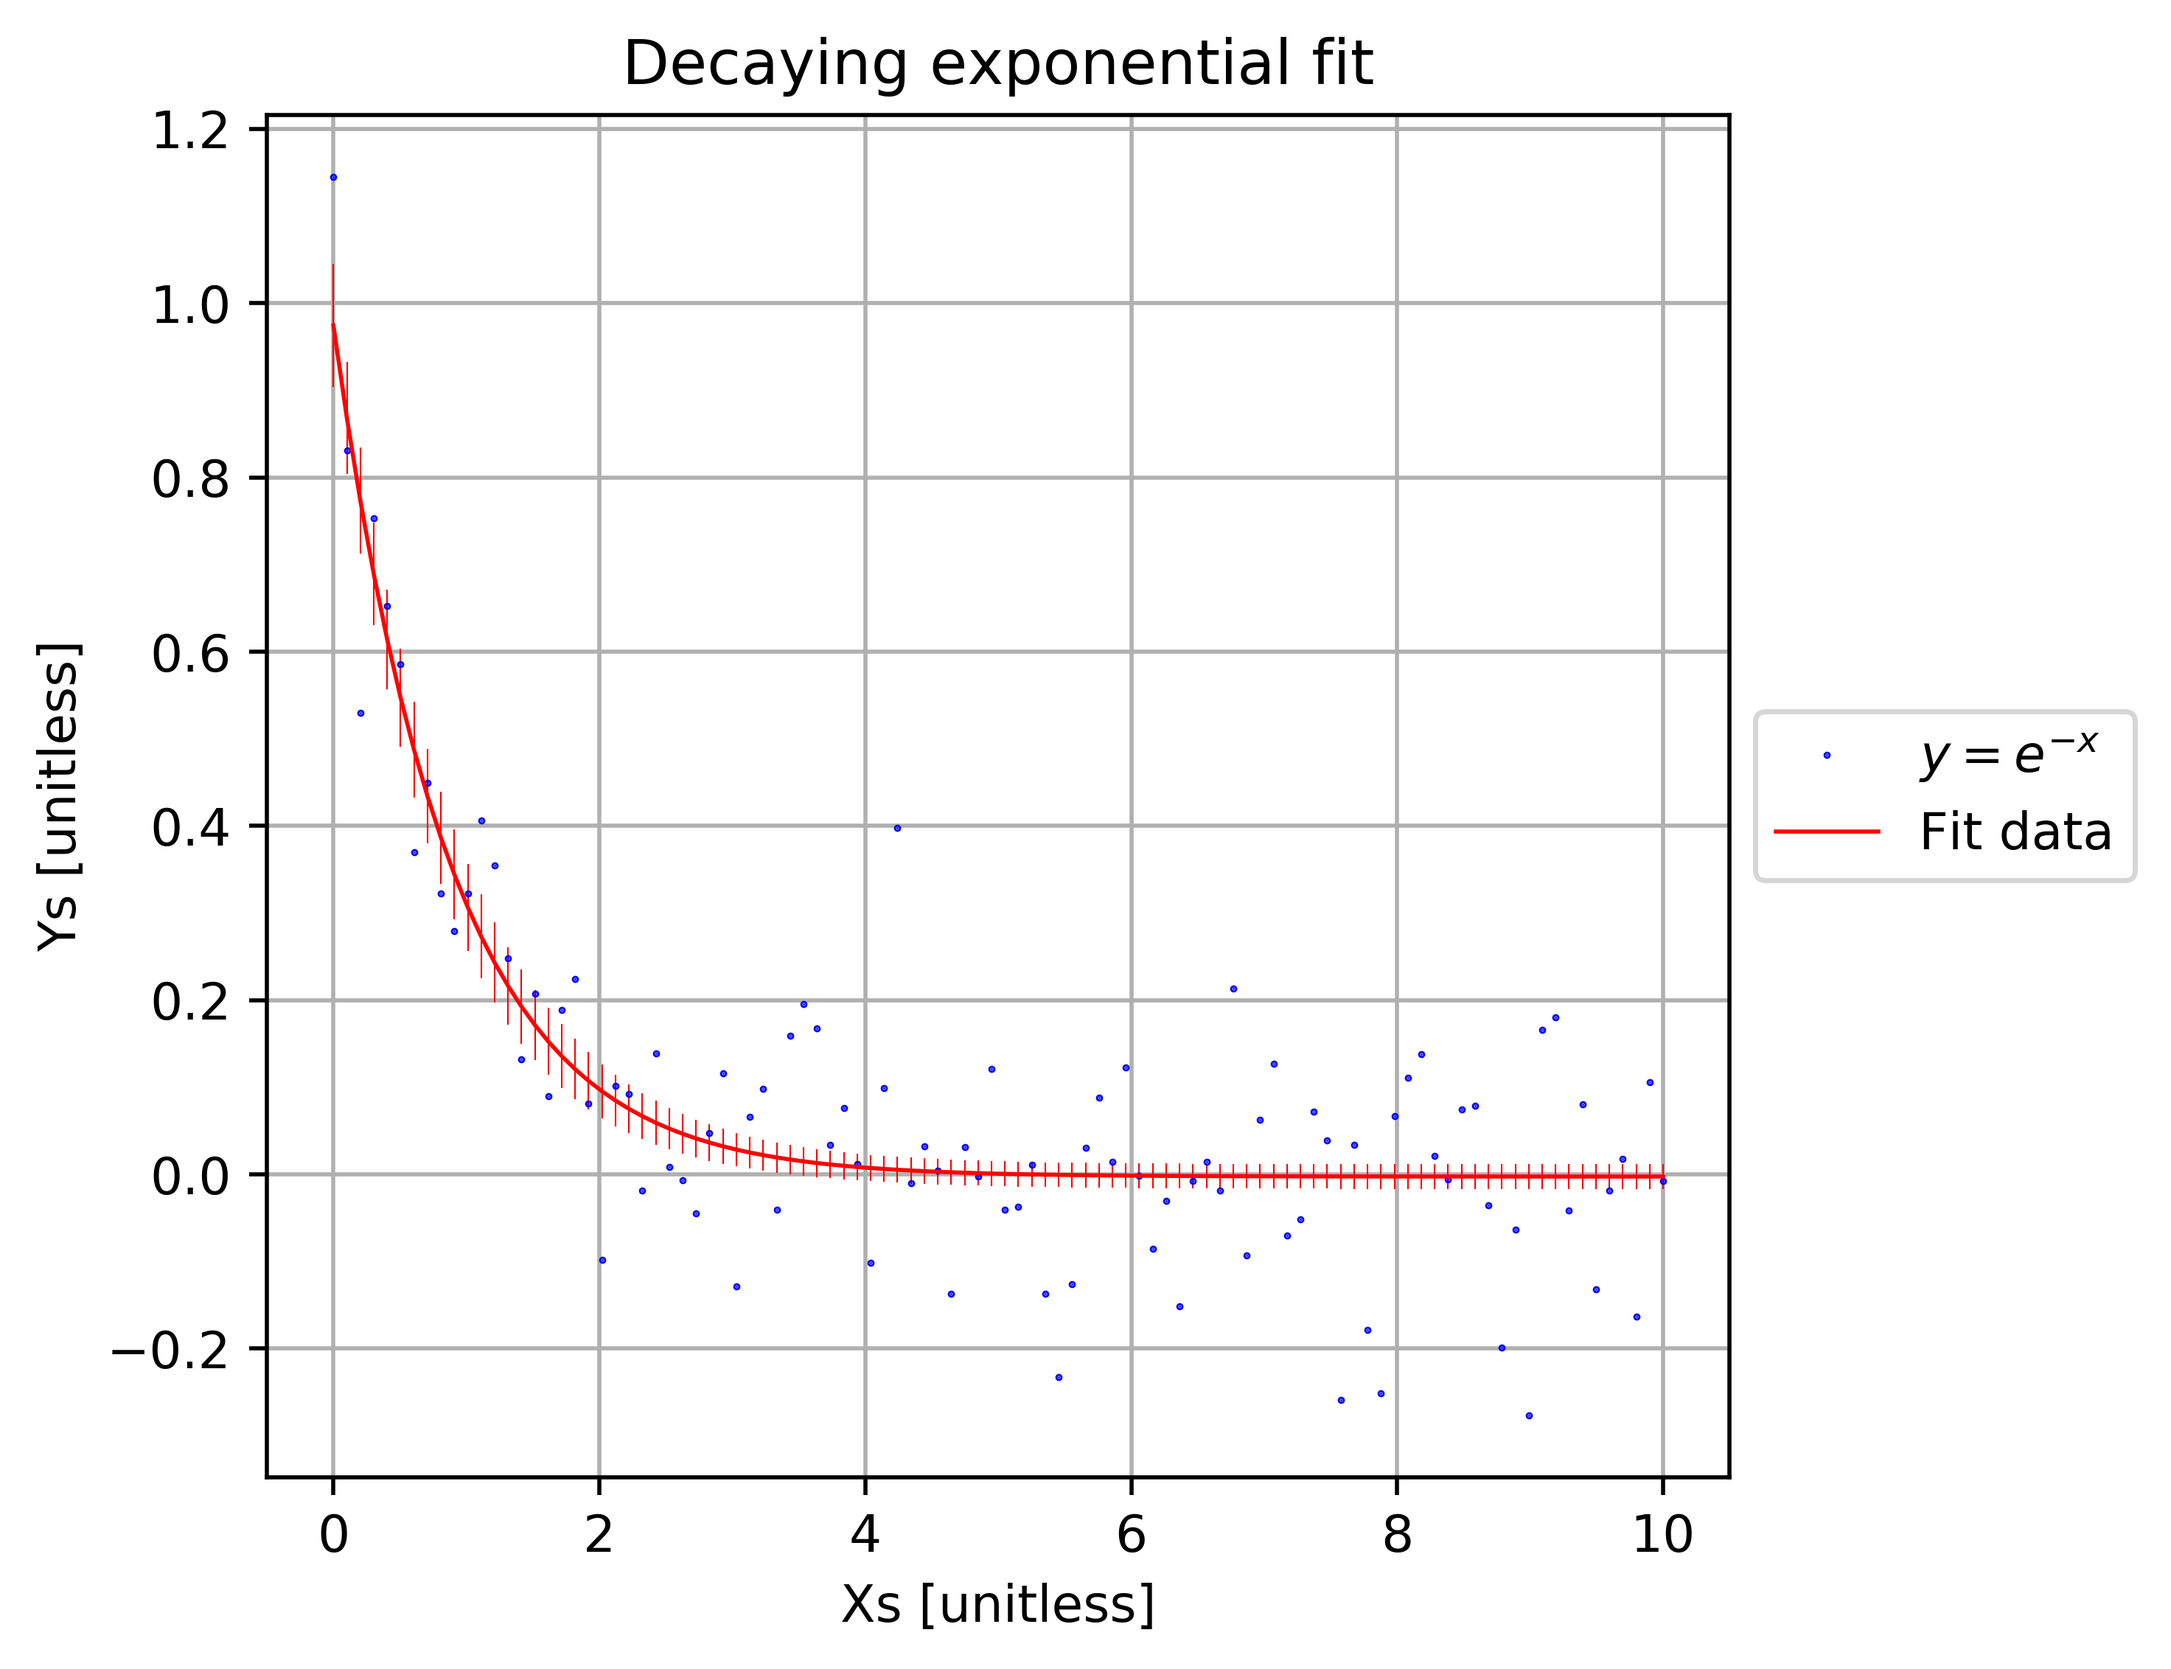
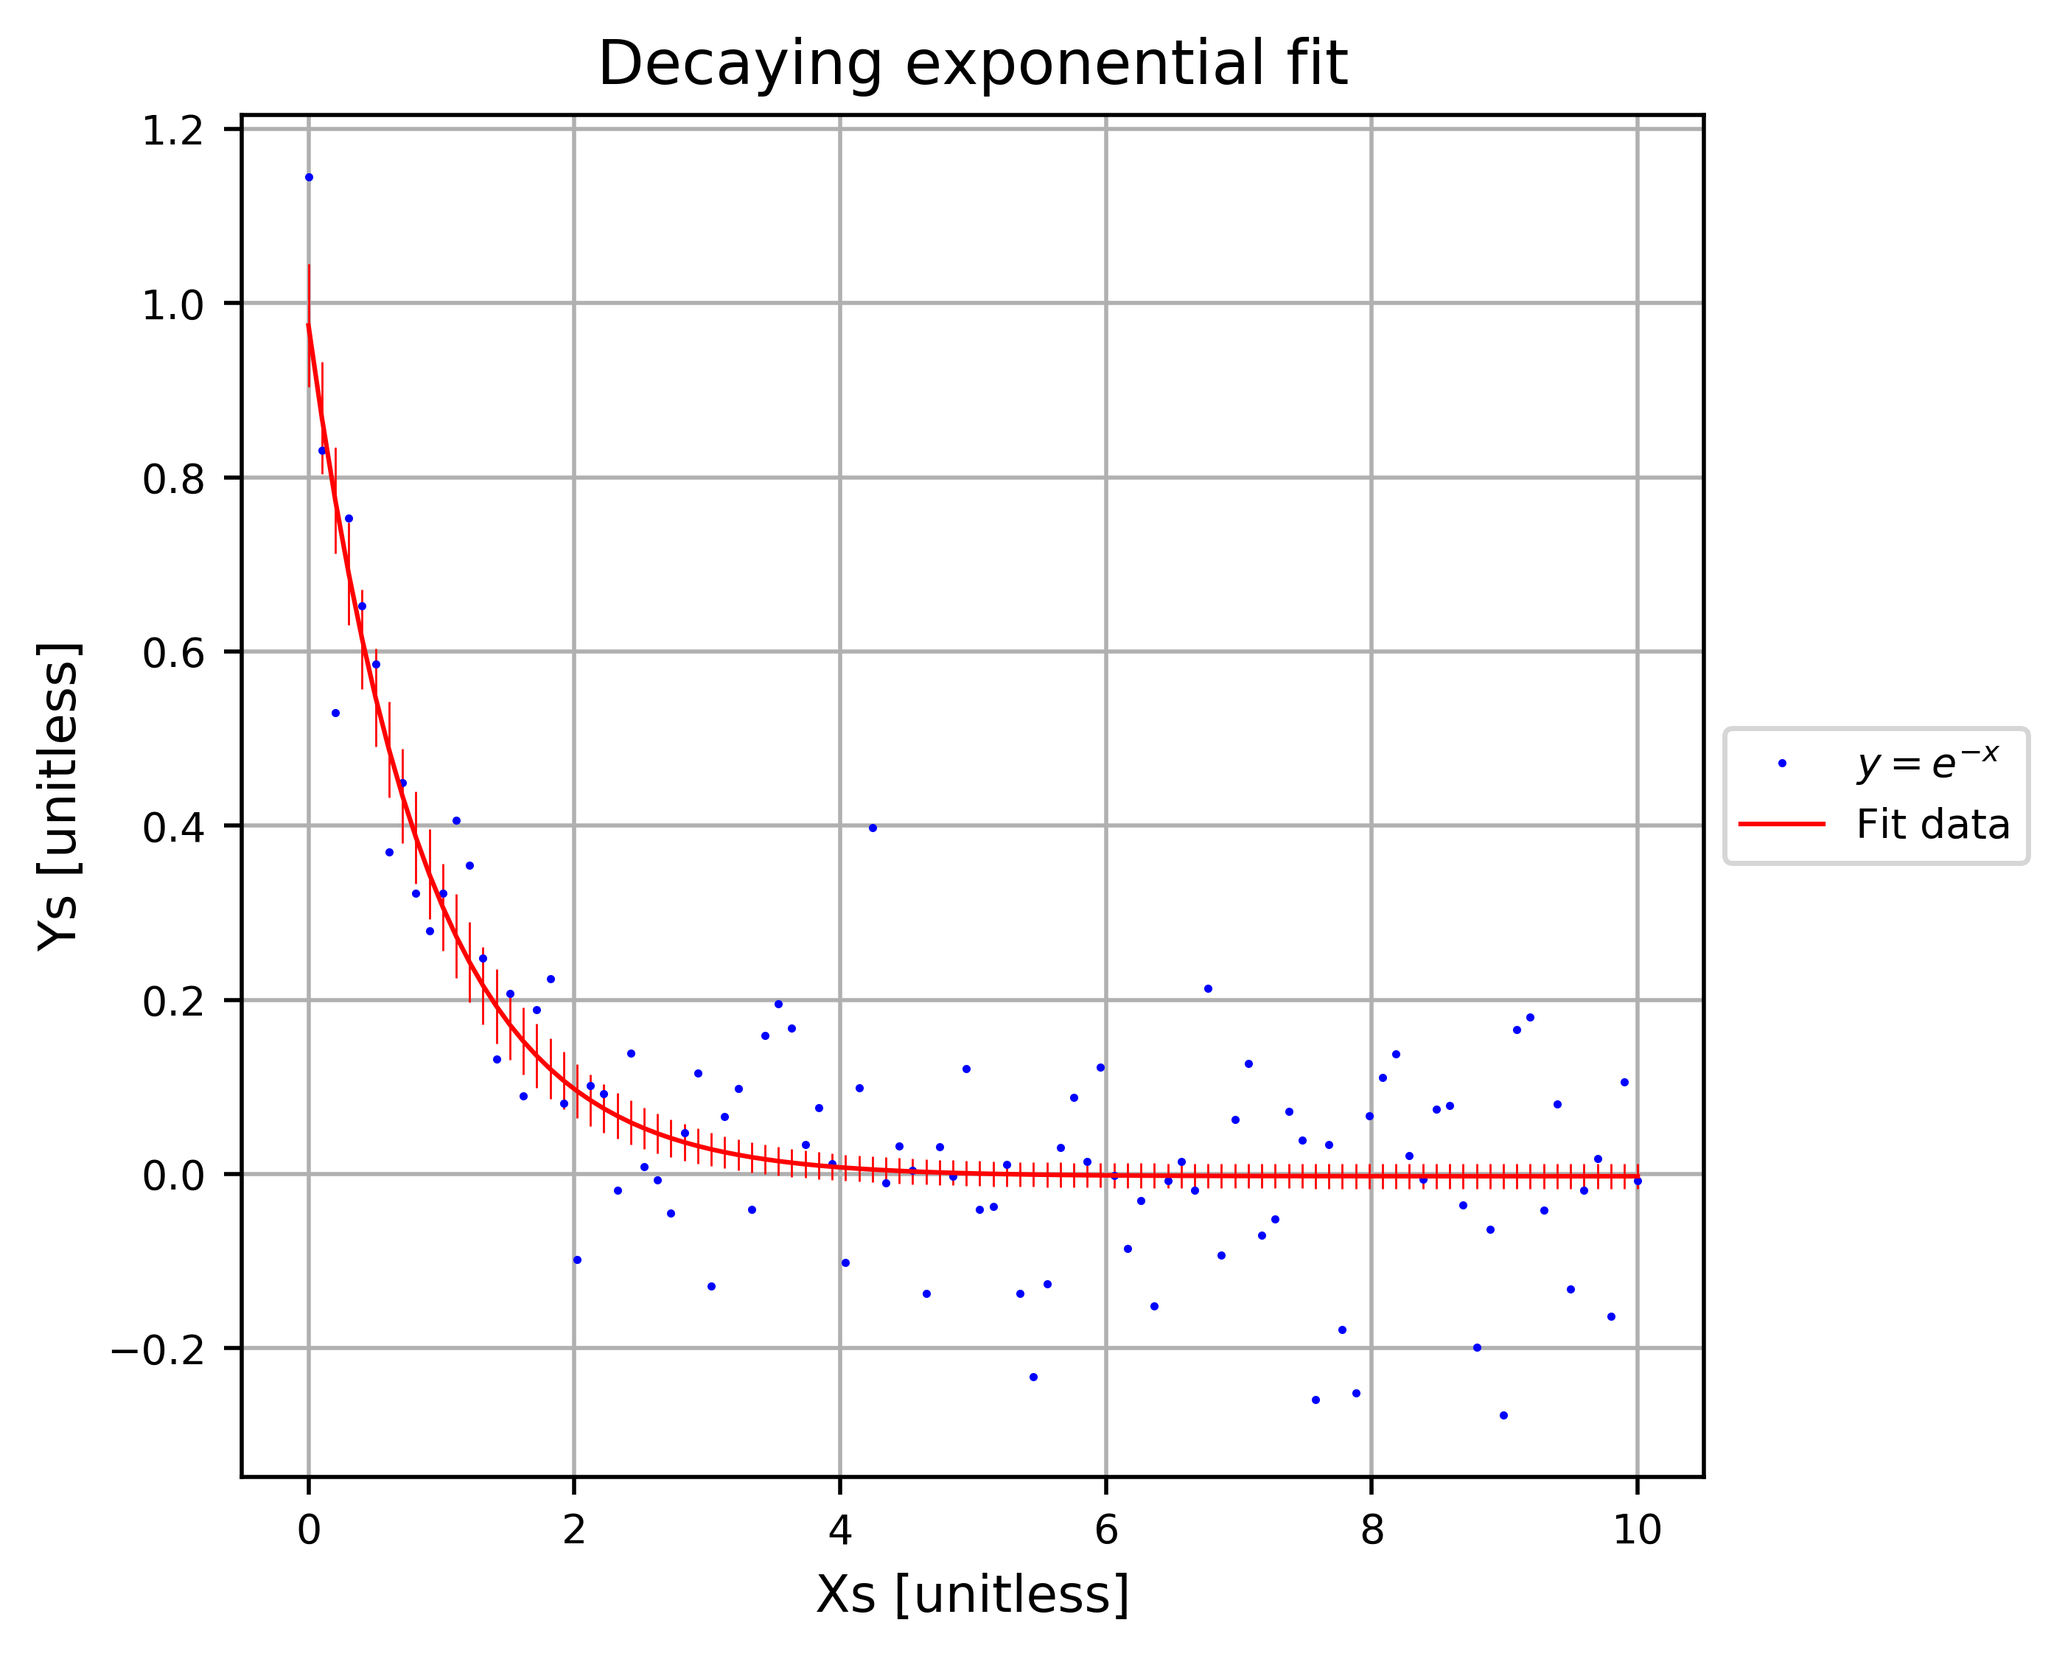
scaling of fontsize,plotzize,pointsize

diff --git a/Main.py b/Main.py
@@ -1,6 +1,7 @@
 # ~~~~~~~~~~~~~~~~~~~~~~~~~~~~~~~~~~~~~~~~~~~~~~~~~~~~~
 # Main File
 # ~~~~~~~~~~~~~~~~~~~~~~~~~~~~~~~~~~~~~~~~~~~~~~~~~~~~~
+
 # ~~~~~~~~~~~~~~~~~~~~~~~~~~~~~~~~~~~~~~~~~~~~~~~~~~~~~
 # Global Toggles
 # ~~~~~~~~~~~~~~~~~~~~~~~~~~~~~~~~~~~~~~~~~~~~~~~~~~~~~
@@ -23,6 +24,18 @@ if gl.save:
 gl.plot = True
 if gl.plot:
 	print("\n~~~~~~~~~~~~~~~~~~~~\n 'plot' set to True \n~~~~~~~~~~~~~~~~~~~~\n")
+
+gl.fontscale = 1.0
+if gl.fontscale != 1.0:
+	print("\n~~~~~~~~~~~~~~~~~~~~~~~\n 'fontscale' set to "+str(gl.fontscale)+"\n~~~~~~~~~~~~~~~~~~~~~~~\n")
+
+gl.lengthscale = 1.0
+if gl.lengthscale != 1.0:
+	print("\n~~~~~~~~~~~~~~~~~~~~~~~~~\n 'lengthscale' set to "+str(gl.lengthscale)+"\n~~~~~~~~~~~~~~~~~~~~~~~~~\n")
+
+gl.widthscale = 1.0
+if gl.widthscale != 1.0:
+	print("\n~~~~~~~~~~~~~~~~~~~~~~~~\n 'widthscale' set to "+str(gl.widthscale)+"\n~~~~~~~~~~~~~~~~~~~~~~~\n")
 
 # ~~~~~~~~~~~~~~~~~~~~~~~~~~~~~~~~~~~~~~~~~~~~~~~~~~~~~
 # Imports
@@ -62,7 +75,7 @@ def expInit():
 
 def expRun(data):
     ax = rp.plotInit(xAx=r"Xs [unitless]", yAx=r"Ys [unitless]", plotTitle=r"Test animation of exponential decay", grid=True, log=False, xLimits=[0,10], yLimits=[-0.1,1.1])
-    rp.plotData(ax, data[0], data[1], eXs=0, eYs=0, dataLabel=r"$y=e^{-x}$", colour="Blue", lines=True)
+    rp.plotData(ax, data[0], data[1], eXs=0, eYs=0, dataLabel=r"$y=e^{-x}$", colour="Blue", lines=True, scale=1.0)
 
 def expData(timeArray, currentTime, A, B, C):
 	Xs = [timeArray[i] for i in range(currentTime)]
@@ -73,20 +86,20 @@ def expData(timeArray, currentTime, A, B, C):
 # Scripting
 # ~~~~~~~~~~~~~~~~~~~~~~~~~~~~~~~~~~~~~~~~~~~~~~~~~~~~~
 
-# # generate an write data
-# xValues = np.linspace(0,10,100)
-# yValues = fd.testData(xValues, expFit, params=[1,-1,0], errY=0.1, seed=21448)
-# rp.writeColumnFile(dataFolder+"expDecayTest.dat", [xValues, yValues], "Test data of decaying exponential\nXs\tYs")
+# generate an write data
+xValues = np.linspace(0,10,100)
+yValues = fd.testData(xValues, expFit, params=[1,-1,0], errY=0.1, seed=21448)
+rp.writeColumnFile(dataFolder+"expDecayTest.dat", [xValues, yValues], "Test data of decaying exponential\nXs\tYs")
 
-# # read and plot data
+# read and plot data
 data = rp.readColumnFile(dataFolder+"expDecayTest.dat", header=2)
-# ax = rp.plotInit(xAx=r"Xs [unitless]", yAx=r"Ys [unitless]", plotTitle=r"Decaying exponential data randomly generated", grid=True, log=False, xLimits=[0,10], yLimits=[-0.1,1.1])
-# rp.plotData(ax, data[0], data[1], eXs=0, eYs=0, dataLabel=r"$y=e^{-x}$", colour="Blue", lines=False)
-# if gl.plot:
-# 	if gl.save:
-# 		rp.plotOutput(savefigname=plotFolder+"expDecayTest.png",resolution=500)
-# 	else:
-# 		rp.plotOutput()
+ax = rp.plotInit(xAx=r"Xs [unitless]", yAx=r"Ys [unitless]", plotTitle=r"Decaying exponential data randomly generated", grid=True, log=False, xLimits=[0,10], yLimits=[-0.1,1.1])
+rp.plotData(ax, data[0], data[1], eXs=0, eYs=0, dataLabel=r"$y=e^{-x}$", colour="Blue", lines=False, scale=1.0)
+if gl.plot:
+	if gl.save:
+		rp.plotOutput(savefigname=plotFolder+"expDecayTest.png",resolution=500)
+	else:
+		rp.plotOutput()
 
 
 # fit data
@@ -102,8 +115,8 @@ for x in data[0]:
 	errYs.append(value.s)
 
 ax = rp.plotInit(xAx=r"Xs [unitless]", yAx=r"Ys [unitless]", plotTitle=r"Decaying exponential fit", grid=True, log=False, xLimits=None, yLimits=None)
-rp.plotData(ax, data[0], data[1], eXs=0, eYs=0, dataLabel=r"$y=e^{-x}$", colour="Blue", lines=False)
-rp.plotData(ax, data[0], fitYs, eXs=0, eYs=errYs, dataLabel=r"Fit data", colour="Red", lines=True)
+rp.plotData(ax, data[0], data[1], eXs=0, eYs=0, dataLabel=r"$y=e^{-x}$", colour="Blue", lines=False, scale=1.0)
+rp.plotData(ax, data[0], fitYs, eXs=0, eYs=errYs, dataLabel=r"Fit data", colour="Red", lines=True, scale=1.0)
 if gl.plot:
 	if gl.save:
 		rp.plotOutput(savefigname=plotFolder+"expDecayFitTest.png",resolution=500)

diff --git a/Backends/ReadAndPlot.py b/Backends/ReadAndPlot.py
@@ -11,11 +11,13 @@ from matplotlib.colors import LogNorm # used to do log colour on plot2D
 import numpy as np # for lognorm (gets max and min of data)
 import Globals as gl
 
-params = {'legend.fontsize': 12,
-         'axes.labelsize': 16,
-         'axes.titlesize': 18,
-         'xtick.labelsize': 14,
-         'ytick.labelsize': 14}
+# rescale all the font sizes and image size
+params = {'figure.figsize': [plot.rcParams['figure.figsize'][0]*gl.widthscale, plot.rcParams['figure.figsize'][1]*gl.lengthscale],
+		'axes.titlesize': 12*gl.fontscale,
+		'axes.labelsize': 10*gl.fontscale,
+		'legend.fontsize': 8*gl.fontscale,
+		'xtick.labelsize': 8*gl.fontscale,
+		'ytick.labelsize': 8*gl.fontscale}
 plot.rcParams.update(params)
 
 # ~~~~~~~~~~~~~~~~~~~~~~~~~~~~~~~~~~~~~~~~~~~~~~~~~~~~~
@@ -88,12 +90,12 @@ def plotInit(xAx=r"Xs [unitless]", yAx=r"Ys [unitless]", plotTitle=r"Default Tit
 
 # call for as much data as you want
 # don't forget to pass ax from plotInit() to make the legend work!
-def plotData(ax, datXs, datYs, eXs=0, eYs=0, dataLabel=r"default", colour="Blue", lines=False):
-	plot.errorbar(datXs, datYs, xerr=eXs, yerr=eYs, ecolor=colour, fmt='none', elinewidth=0.3)
+def plotData(ax, datXs, datYs, eXs=0, eYs=0, dataLabel=r"default", colour="Blue", lines=False, scale=1.0):
+	plot.errorbar(datXs, datYs, xerr=eXs, yerr=eYs, ecolor=colour, fmt='none', elinewidth=0.4*scale)
 	if lines:
-		plot.plot(datXs, datYs, label=dataLabel, color=colour, marker='', linestyle='-', linewidth=0.8)
+		plot.plot(datXs, datYs, label=dataLabel, color=colour, marker='', linestyle='-', linewidth=0.9*scale)
 	else:
-		plot.plot(datXs, datYs, label=dataLabel, color=colour, marker='.', linestyle='', markersize=0.8)
+		plot.plot(datXs, datYs, label=dataLabel, color=colour, marker='.', linestyle='', markersize=1.2*scale)
 	ax.legend(loc='center left', bbox_to_anchor=(1, 0.5))
 
 # plots a 1D histogram

diff --git a/Backends/Globals.py b/Backends/Globals.py
@@ -9,3 +9,6 @@
 verbose = False
 save = False
 plot = True
+fontscale = 1.0
+lengthscale = 1.0
+widthscale = 1.0
